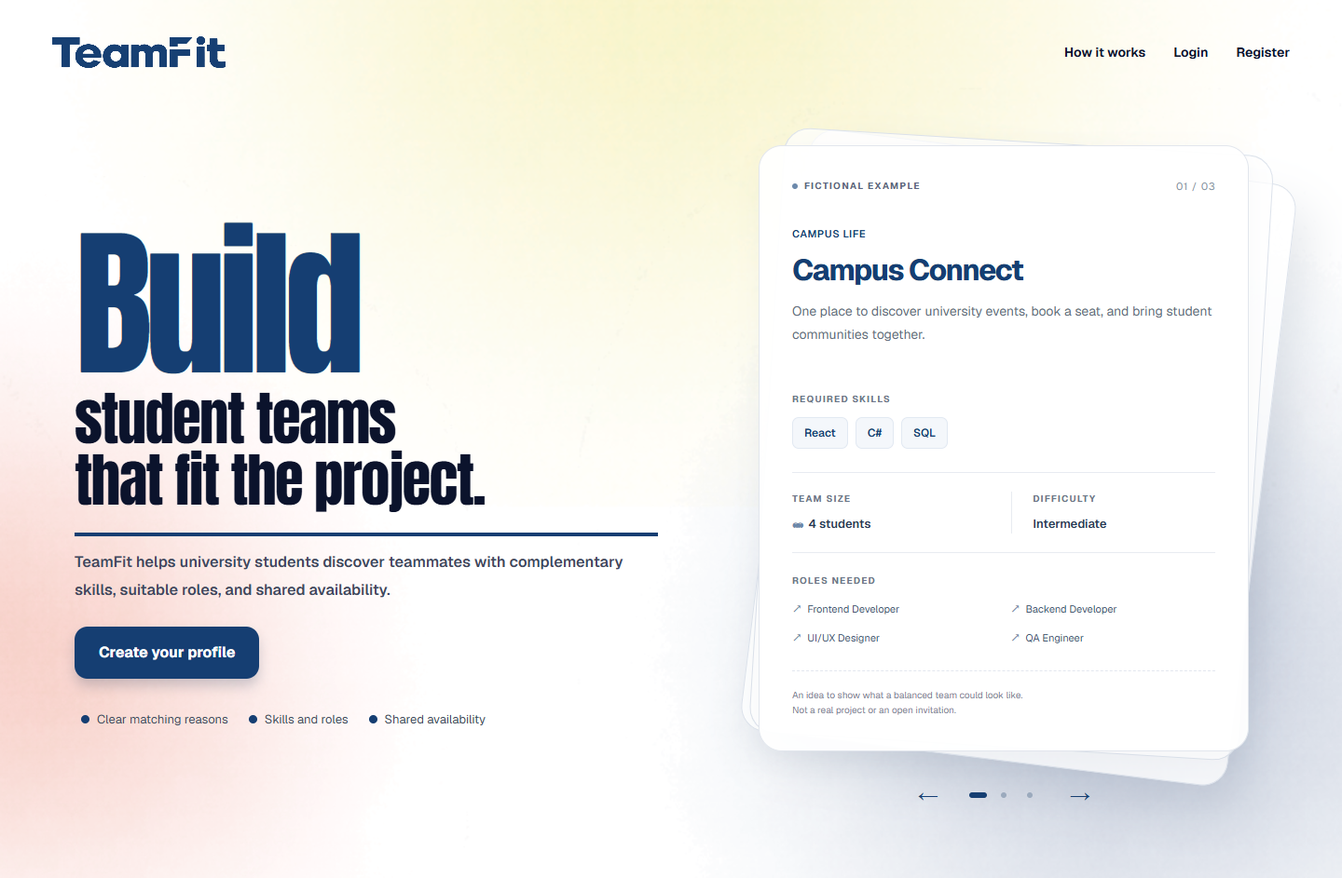
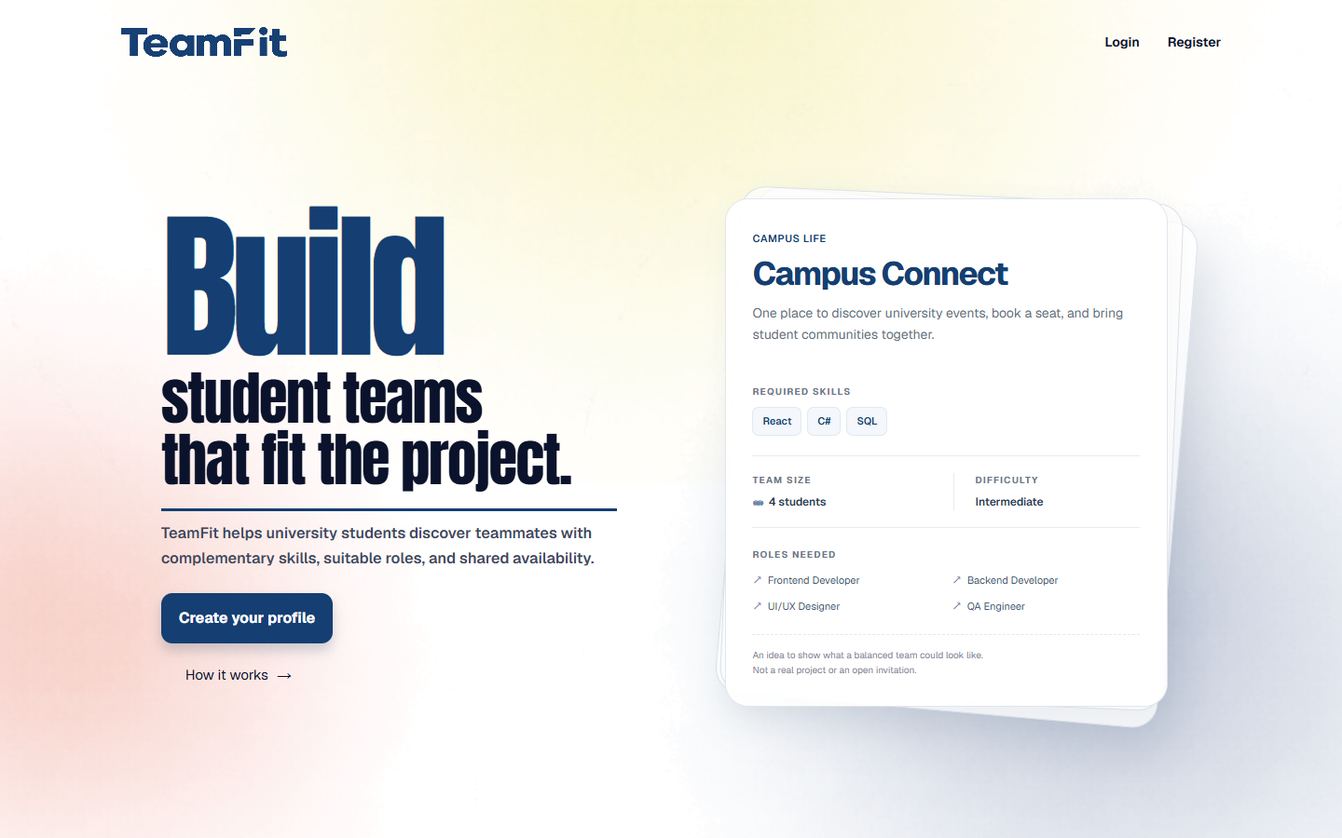
fixed hamepage issues

diff --git a/frontend/src/app/landing.css b/frontend/src/app/landing.css
@@ -52,19 +52,14 @@ button:not(:disabled), a { cursor: pointer; }
 .brand-button-primary:hover { background: #102f58; }
 .brand-button-secondary { background: #fff; color: var(--brand-navy); box-shadow: 0 8px 13px #17233d25; }
 .hero-session-placeholder { display: block; min-height: 56px; width: 200px; }
-.hero-benefits { display: flex; flex-wrap: wrap; gap: 14px 22px; color: #434d60; font-size: 13px; margin-top: 34px; padding-left: 7px; }
-.hero-benefits li { display: flex; align-items: center; gap: 8px; }
-.hero-benefits li::before { content: ""; height: 9px; width: 9px; flex-shrink: 0; border-radius: 50%; background: var(--brand-navy); }
+.hero-how-link { display: inline-flex; align-items: center; gap: 9px; margin: 17px 0 0 16px; padding: 8px 10px; color: var(--brand-ink); font-size: 14px; }
+.hero-how-link:hover { color: var(--brand-navy); text-decoration: underline; text-underline-offset: 5px; }
 .project-showcase { min-width: 0; padding-inline: 8px 20px; }
 .project-stack { position: relative; isolation: isolate; }
 .stack-sheet { position: absolute; inset: 0; border-radius: 27px; border: 1px solid #dce2eb; background: #ffffffbc; z-index: -1; }
 .stack-sheet-back { transform: rotate(7deg) translate(17px, 8px); box-shadow: 18px 25px 50px #283e6020; }
 .stack-sheet-middle { transform: rotate(3.5deg) translate(8px, -5px); }
 .example-project { border: 1px solid #e2e6ed; border-radius: 25px; background: #fffffff2; padding: clamp(24px, 2.4vw, 42px); box-shadow: 0 8px 30px #2c42600a; }
-.example-topline { display: flex; flex-wrap: wrap; gap: 8px; align-items: center; justify-content: space-between; }
-.fictional-label { display: inline-flex; align-items: center; gap: 7px; font-size: 10px; text-transform: uppercase; letter-spacing: .13em; font-weight: 700; color: #5b6780; }
-.fictional-label > span { width: 6px; height: 6px; border-radius: 50%; background: #6d8aac; }
-.example-number { color: #8894a6; font-size: 11px; letter-spacing: .08em; }
 .example-heading { padding-block: 30px 25px; }
 .project-category { color: var(--brand-navy); font-size: 11px; font-weight: 600; letter-spacing: .06em; text-transform: uppercase; }
 .example-heading h2 { margin-top: 9px; color: var(--brand-navy); font-size: clamp(25px, 2.2vw, 36px); font-weight: 750; letter-spacing: -.045em; line-height: 1.2; }
@@ -81,13 +76,6 @@ button:not(:disabled), a { cursor: pointer; }
 .example-roles li { font-size: 11px; color: #455773; display: flex; align-items: baseline; gap: 6px; }
 .example-roles li span { color: #6682a2; font-size: 14px; }
 .example-disclaimer { font-size: 10px; color: #7b8594; line-height: 1.65; margin-top: 25px; padding-top: 18px; border-top: 1px dashed #e3e7ef; }
-.showcase-controls { display: flex; align-items: center; justify-content: center; gap: 24px; margin-top: 29px; }
-.showcase-controls > button { color: var(--brand-navy); height: 35px; width: 35px; font-size: 21px; border-radius: 50%; }
-.showcase-controls > button:hover { background: #ffffff9c; }
-.showcase-dots { display: flex; gap: 4px; align-items: center; }
-.showcase-dots button { position: relative; width: 24px; height: 30px; }
-.showcase-dots button::after { content: ""; display: block; margin: auto; width: 6px; height: 6px; border-radius: 6px; background: #9baabd; }
-.showcase-dots button.selected::after { width: 19px; background: var(--brand-navy); }
 .how-page { width: min(1000px, calc(100% - 48px)); margin: 28px auto 0; padding-bottom: 80px; }
 .back-home { display: inline-block; font-size: 13px; color: var(--brand-navy); margin-bottom: 45px; }
 .page-eyebrow { font-size: 11px; letter-spacing: .15em; color: var(--brand-navy); font-weight: 700; text-transform: uppercase; }
@@ -111,7 +99,6 @@ button:not(:disabled), a { cursor: pointer; }
   .hero-description { font-size: 14px; }
   .hero-actions { gap: 13px; }
   .brand-button { min-width: 145px; font-size: 13px; padding: 15px 18px; }
-  .hero-benefits { font-size: 11px; gap: 13px; }
   .example-project { padding: 25px; }
   .example-roles ul { grid-template-columns: 1fr; min-height: 90px; }
   .public-workspace-nav { width: calc(100% - 64px); }
@@ -128,8 +115,6 @@ button:not(:disabled), a { cursor: pointer; }
   .hero-build { font-size: clamp(104px, 28vw, 185px); }
   .hero-line { font-size: clamp(35px, 9.4vw, 64px); }
   .hero-description { font-size: 14px; line-height: 1.8; margin-top: 20px; }
-  .hero-benefits { margin-top: 26px; font-size: 11px; gap: 11px 18px; padding: 0; }
-  .hero-benefits li::before { height: 6px; width: 6px; }
   .brand-button { min-width: 145px; font-size: 13px; padding: 16px 18px; }
   .project-showcase { max-width: 480px; width: 100%; margin-inline: auto; padding-inline: 0 15px; }
   .example-project { padding: 26px; border-radius: 22px; }
@@ -154,4 +139,104 @@ button:not(:disabled), a { cursor: pointer; }
 @media (prefers-reduced-motion: reduce) {
   .brand-button { transition: none; }
   .brand-button:hover { transform: none; }
+}
+
+/* Home-only sizing: use both viewport dimensions, without hiding/cropping content.
+   Workspace pages and the longer How It Works guide keep their normal scrolling. */
+.landing-home { --home-header: clamp(52px, 10svh, 92px); }
+.landing-home .site-header-inner {
+  width: min(1560px, 82%); min-height: var(--home-header); padding-block: 8px;
+}
+.landing-home .brand-mark { width: clamp(120px, 13vw, 178px); }
+.landing-home .landing-hero {
+  width: min(1420px, 76%); min-height: calc(100svh - var(--home-header));
+  grid-template-columns: 1fr 1fr; gap: clamp(40px, 8vw, 125px);
+  padding-block: min(3svh, 24px) min(5svh, 42px);
+}
+.landing-home .hero-build { font-size: clamp(70px, min(12vw, 23svh), 206px); margin-bottom: 5px; }
+.landing-home .hero-line { font-size: clamp(29px, min(4.35vw, 8.3svh), 74px); }
+.landing-home .hero-description {
+  font-size: clamp(12px, min(1.13vw, 2.05svh), 18px); line-height: 1.65;
+  margin-top: clamp(8px, 2svh, 19px); padding-top: clamp(7px, 1.3svh, 12px); border-top-width: 3px;
+}
+.landing-home .hero-actions { margin-top: clamp(12px, 2.7svh, 23px); min-height: 0; gap: 18px; }
+.landing-home .brand-button {
+  min-width: clamp(125px, 12.5vw, 182px); padding: clamp(10px, 1.7svh, 15px) 19px;
+  font-size: clamp(12px, 1.12vw, 16px); border-radius: 12px;
+}
+.landing-home .hero-session-placeholder { min-height: 44px; }
+.landing-home .hero-how-link { margin-top: clamp(8px, 1.7svh, 16px); font-size: clamp(12px, 1.1vw, 15px); }
+.landing-home .project-showcase { padding-inline: 0 14px; max-width: 560px; width: 100%; justify-self: end; }
+.landing-home .stack-sheet-back { transform: rotate(5deg) translate(11px, 5px); }
+.landing-home .stack-sheet-middle { transform: rotate(2.5deg) translate(5px, -4px); }
+.landing-home .example-project { padding: clamp(18px, 3.2svh, 34px); }
+.landing-home .example-heading { padding-block: 0 clamp(10px, 2.3svh, 22px); }
+.landing-home .example-heading h2 { font-size: clamp(24px, min(2.45vw, 4.5svh), 35px); margin-top: 6px; }
+.landing-home .example-heading p {
+  font-size: clamp(12px, min(1.03vw, 1.9svh), 14px); line-height: 1.6;
+  margin-top: 10px; min-height: 4.8em;
+}
+.landing-home .example-skills ul { margin-top: 9px; gap: 6px; }
+.landing-home .example-skills li { padding: 6px 10px; font-size: 11px; }
+.landing-home .example-facts { margin-top: clamp(12px, 2.4svh, 23px); padding-block: clamp(10px, 2svh, 18px); }
+.landing-home .example-facts dd { margin-top: 7px; font-size: 12px; }
+.landing-home .example-roles { margin-top: clamp(12px, 2.3svh, 21px); }
+.landing-home .example-roles ul { grid-template-columns: 1fr 1fr; gap: 7px 12px; margin-top: 9px; min-height: 42px; }
+.landing-home .example-roles li { font-size: 11px; }
+.landing-home .example-disclaimer { margin-top: clamp(11px, 2.3svh, 20px); padding-top: clamp(9px, 1.6svh, 14px); }
+
+@media (min-width: 761px) and (max-height: 600px) {
+  .landing-home .stack-sheet-back { transform: rotate(3deg) translate(6px, 3px); }
+  .landing-home .stack-sheet-middle { transform: rotate(1.5deg) translate(3px, -3px); }
+  .landing-home .site-header-inner { min-height: 50px; padding-block: 0; }
+  .landing-home { --home-header: 50px; }
+  .landing-home .landing-hero { width: 78%; gap: 7vw; padding-block: 6px 16px; }
+  .landing-home .example-project { padding: 14px 22px; border-radius: 19px; }
+  .landing-home .project-category { font-size: 10px; }
+  .landing-home .example-heading { padding-bottom: 6px; }
+  .landing-home .example-heading h2 { font-size: 23px; }
+  .landing-home .example-heading p { font-size: 11px; line-height: 1.5; margin-top: 6px; min-height: 3em; }
+  .landing-home .example-skills ul { margin-top: 6px; }
+  .landing-home .example-skills li { font-size: 10px; padding: 3px 8px; }
+  .landing-home .example-facts { margin-top: 8px; padding-block: 7px; }
+  .landing-home .example-facts dd { font-size: 11px; margin-top: 5px; }
+  .landing-home .example-roles { margin-top: 9px; }
+  .landing-home .example-roles ul { margin-top: 5px; min-height: 32px; gap: 3px 7px; }
+  .landing-home .example-roles li { font-size: 10px; line-height: 1.3; }
+  .landing-home .example-roles li span { font-size: 11px; line-height: 1; }
+  .landing-home .example-disclaimer { margin-top: 7px; padding-top: 6px; font-size: 9px; line-height: 1.4; }
+  .landing-home .hero-how-link { margin-top: 6px; }
+}
+
+@media (max-width: 760px) {
+  .landing-home { --home-header: 54px; }
+  .landing-home .site-header-inner { width: calc(100% - 40px); min-height: 54px; flex-wrap: nowrap; justify-content: space-between; gap: 16px; }
+  .landing-home .account-navigation { gap: 14px; }
+  .landing-home .landing-hero {
+    width: min(460px, calc(100% - 44px)); grid-template-columns: 1fr;
+    align-content: center; gap: clamp(14px, 2.2svh, 24px); padding-block: 8px 19px;
+  }
+  .landing-home .hero-build { font-size: clamp(59px, 9.1svh, 93px); line-height: .97; margin-bottom: 2px; }
+  .landing-home .hero-line { font-size: clamp(25px, 3.8svh, 36px); line-height: 1.02; }
+  .landing-home .hero-description { font-size: 12px; line-height: 1.45; margin-top: 8px; padding-top: 7px; border-top-width: 2px; }
+  .landing-home .hero-actions { margin-top: 10px; gap: 12px; }
+  .landing-home .brand-button { min-width: 0; flex: 0 1 auto; font-size: 12px; padding: 10px 17px; border-radius: 9px; }
+  .landing-home .hero-how-link { margin: 5px 0 0 8px; padding-block: 6px; font-size: 12px; }
+  .landing-home .project-showcase { padding-inline: 0 6px; }
+  .landing-home .stack-sheet-back { transform: rotate(2deg) translate(4px, 3px); }
+  .landing-home .stack-sheet-middle { transform: rotate(1deg) translate(2px, -3px); }
+  .landing-home .example-project { padding: 16px 19px; border-radius: 18px; }
+  .landing-home .project-category { font-size: 9px; }
+  .landing-home .example-heading { padding-bottom: 9px; }
+  .landing-home .example-heading h2 { font-size: 23px; margin-top: 3px; }
+  .landing-home .example-heading p { font-size: 11px; line-height: 1.5; min-height: 3em; margin-top: 6px; }
+  .landing-home .example-project h3, .landing-home .example-facts dt { font-size: 9px; }
+  .landing-home .example-skills ul { margin-top: 6px; }
+  .landing-home .example-skills li { font-size: 10px; padding: 4px 8px; }
+  .landing-home .example-facts { margin-top: 9px; padding-block: 9px; }
+  .landing-home .example-facts dd { font-size: 11px; margin-top: 4px; }
+  .landing-home .example-roles { margin-top: 9px; }
+  .landing-home .example-roles ul { margin-top: 5px; gap: 3px 10px; min-height: 32px; }
+  .landing-home .example-roles li { font-size: 10px; }
+  .landing-home .example-disclaimer { font-size: 9px; margin-top: 9px; padding-top: 8px; }
 }

diff --git a/frontend/tests/landing.spec.ts b/frontend/tests/landing.spec.ts
@@ -59,6 +59,7 @@ test("guest home matches the simplified public experience and fictional cards", 
   const errors: string[] = [];
   page.on("pageerror", error => errors.push(error.message));
   const requests = await sessionApi(page);
+  await page.clock.install();
   await page.setViewportSize({ width: 1440, height: 900 });
   await page.goto("/");
   await expect(page.getByRole("link", { name: "Register", exact: true })).toBeVisible();
@@ -68,14 +69,18 @@ test("guest home matches the simplified public experience and fictional cards", 
   await expect(page.getByRole("heading", { name: "Sample projects", exact: true })).toHaveCount(0);
   await expect(page.getByText("Your next team starts here")).toHaveCount(0);
   await expect(page.getByRole("heading", { name: "Campus Connect" })).toBeVisible();
-  await expect(page.getByText("Fictional example", { exact: true })).toBeVisible();
+  await expect(page.getByText("Fictional example", { exact: true })).toHaveCount(0);
+  await expect(page.getByText("01 / 03", { exact: true })).toHaveCount(0);
+  await expect(page.getByRole("region", { name: "Example projects, rotating automatically" }).getByRole("button")).toHaveCount(0);
+  await expect(page.getByRole("banner").getByRole("link", { name: "How it works", exact: true })).toHaveCount(0);
+  await expect(page.getByText("Clear matching reasons", { exact: true })).toHaveCount(0);
   for (const label of ["Required skills", "Team size", "Roles needed", "Difficulty"])
     await expect(page.getByText(label, { exact: true })).toBeVisible();
   await page.evaluate(() => document.fonts.ready);
   await page.screenshot({ path: "test-results/guest-home-desktop.png", fullPage: true });
-  await page.getByRole("button", { name: "Next example project" }).click();
+  await page.clock.fastForward(10000);
   await expect(page.getByRole("heading", { name: "Study Circle" })).toBeVisible();
-  await page.getByRole("button", { name: "Show Green Campus" }).click();
+  await page.clock.fastForward(10000);
   await expect(page.getByRole("heading", { name: "Green Campus" })).toBeVisible();
   await page.getByRole("link", { name: "How it works", exact: true }).click();
   await expect(page).toHaveURL(/\/how-it-works$/);
@@ -85,7 +90,7 @@ test("guest home matches the simplified public experience and fictional cards", 
   expect(errors).toEqual([]);
 });
 
-test("signed-in home has a username, workspace links, and reversible logout", async ({ page }) => {
+test("signed-in home hides workspace navigation but keeps profile access and logout", async ({ page }) => {
   await sessionApi(page, "member");
   await page.setViewportSize({ width: 1440, height: 900 });
   await page.goto("/");
@@ -95,11 +100,12 @@ test("signed-in home has a username, workspace links, and reversible logout", as
   await expect(page.getByRole("link", { name: "Create your profile" })).toHaveCount(0);
   await expect(page.getByRole("link", { name: "Browse projects", exact: true })).toBeVisible();
   const navigation = page.getByRole("navigation", { name: "Workspace navigation" });
-  for (const label of ["Dashboard", "My Profile", "Students", "Projects", "Invitations"])
-    await expect(navigation.getByRole("link", { name: label, exact: true })).toBeVisible();
+  await expect(navigation).toHaveCount(0);
+  await expect(page.getByRole("main").getByRole("link", { name: "How it works", exact: true })).toBeVisible();
   await page.evaluate(() => document.fonts.ready);
   await page.screenshot({ path: "test-results/member-home-desktop.png", fullPage: true });
-  await navigation.getByRole("link", { name: "Dashboard", exact: true }).click();
+  await page.getByRole("main").getByRole("link", { name: "My profile", exact: true }).click();
+  await expect(navigation.getByRole("link", { name: "Dashboard", exact: true })).toBeVisible();
   await expect(page.getByRole("banner")).toContainText("nimal");
   await expect(page.getByRole("banner")).not.toContainText("private@example.test");
   await page.getByRole("link", { name: "TeamFit home" }).click();
@@ -142,6 +148,27 @@ test("profile creation and edits generate the header name; login opens signed-in
 });
 
 for (const state of ["guest", "member"] as const) {
+  test(state + " home fits the viewport vertically across desktop and laptop sizes", async ({ page }) => {
+    await sessionApi(page, state);
+    await page.clock.install();
+    for (const [width, height] of [[1920, 1080], [1440, 900], [1366, 768], [1280, 720], [1024, 600], [888, 429], [390, 844]]) {
+      await page.setViewportSize({ width, height });
+      await page.goto("/");
+      await expect(page.getByText("Checking session…")).toHaveCount(0);
+      await page.evaluate(() => document.fonts.ready);
+      // Verify all three automatic slides, not just the shortest card.
+      for (let slide = 0; slide < 3; slide++) {
+        const bounds = await page.evaluate(() => ({
+          width: document.documentElement.scrollWidth, height: document.documentElement.scrollHeight,
+          cardBottom: document.querySelector(".example-project")!.getBoundingClientRect().bottom,
+        }));
+        expect(bounds.width, `horizontal overflow at ${width}x${height}`).toBeLessThanOrEqual(width);
+        expect(bounds.height, `vertical overflow at ${width}x${height}, slide ${slide}`).toBeLessThanOrEqual(height);
+        expect(bounds.cardBottom, "Do not clip the bottom of the card").toBeLessThanOrEqual(height);
+        await page.clock.fastForward(10000);
+      }
+    }
+  });
   test(state + " layout fits mobile and tablet without horizontal scrolling", async ({ page }) => {
     await sessionApi(page, state);
     for (const width of [390, 320, 768]) {
@@ -170,6 +197,31 @@ test("a failed session check preserves the public page and offers retry", async 
   unavailable = false;
   await page.getByRole("button", { name: "Retry connection" }).click();
   await expect(page.getByRole("alert", { name: "Session connection error" })).toHaveCount(0);
+});
+
+test("automatic cards loop and pause while reading or when reduced motion is requested", async ({ page }) => {
+  await sessionApi(page);
+  await page.clock.install();
+  await page.goto("/");
+  await expect(page.getByRole("link", { name: "Login", exact: true })).toBeVisible();
+  const showcase = page.getByRole("region", { name: "Example projects, rotating automatically" });
+  await showcase.hover();
+  await page.clock.fastForward(10000);
+  await expect(page.getByRole("heading", { name: "Campus Connect" })).toBeVisible();
+  await page.mouse.move(0, 0);
+  await page.clock.fastForward(10000);
+  await expect(page.getByRole("heading", { name: "Study Circle" })).toBeVisible();
+  await showcase.focus();
+  await page.clock.fastForward(10000);
+  await expect(page.getByRole("heading", { name: "Study Circle" })).toBeVisible();
+  await page.getByRole("link", { name: "Login", exact: true }).focus();
+  await page.clock.fastForward(10000);
+  await expect(page.getByRole("heading", { name: "Green Campus" })).toBeVisible();
+  await page.clock.fastForward(10000);
+  await expect(page.getByRole("heading", { name: "Campus Connect" })).toBeVisible();
+  await page.emulateMedia({ reducedMotion: "reduce" });
+  await page.clock.fastForward(20000);
+  await expect(page.getByRole("heading", { name: "Campus Connect" })).toBeVisible();
 });
 
 test("private routes still require login and preserve the requested destination", async ({ page }) => {

diff --git a/frontend/src/components/project-showcase.tsx b/frontend/src/components/project-showcase.tsx
@@ -1,6 +1,6 @@
 "use client";
 
-import { useState } from "react";
+import { useEffect, useRef, useState } from "react";
 
 // Deliberately static examples: never fetch or publish real student projects here.
 const examples = [
@@ -23,13 +23,24 @@ const examples = [
 
 export default function ProjectShowcase() {
   const [index, setIndex] = useState(0);
+  const showcase = useRef<HTMLElement>(null);
+  useEffect(() => {
+    // Rotate automatically, but let people finish reading on hover/keyboard focus.
+    // Hidden tabs and reduced-motion preferences must not trigger slide changes.
+    const timer = window.setInterval(() => {
+      if (document.visibilityState !== "visible" ||
+          window.matchMedia("(prefers-reduced-motion: reduce)").matches ||
+          showcase.current?.matches(":hover, :focus-within")) return;
+      setIndex(current => (current + 1) % examples.length);
+    }, 10000);
+    return () => window.clearInterval(timer);
+  }, []);
   const project = examples[index];
-  return <section className="project-showcase" aria-label="Fictional project showcase">
+  return <section ref={showcase} className="project-showcase" aria-label="Example projects, rotating automatically" tabIndex={0}>
     <div className="project-stack">
       <div className="stack-sheet stack-sheet-back" aria-hidden="true" />
       <div className="stack-sheet stack-sheet-middle" aria-hidden="true" />
-      <article className="example-project" aria-live="polite" aria-atomic="true">
-        <div className="example-topline"><span className="fictional-label"><span /> Fictional example</span><span className="example-number">0{index + 1} / 03</span></div>
+      <article className="example-project" aria-live="off">
         <div className="example-heading">
           <span className="project-category">{project.category}</span>
           <h2>{project.title}</h2>
@@ -43,13 +54,6 @@ export default function ProjectShowcase() {
         <div className="example-roles"><h3>Roles needed</h3><ul>{project.roles.map(role => <li key={role}><span aria-hidden="true">↗</span>{role}</li>)}</ul></div>
         <p className="example-disclaimer">An idea to show what a balanced team could look like.<br />Not a real project or an open invitation.</p>
       </article>
-    </div>
-    <div className="showcase-controls" aria-label="Choose an example project">
-      <button onClick={() => setIndex(current => (current + examples.length - 1) % examples.length)} aria-label="Previous example project">←</button>
-      <div className="showcase-dots">{examples.map((item, position) => <button key={item.title}
-        className={position === index ? "selected" : ""} aria-label={`Show ${item.title}`}
-        aria-pressed={position === index} onClick={() => setIndex(position)} />)}</div>
-      <button onClick={() => setIndex(current => (current + 1) % examples.length)} aria-label="Next example project">→</button>
     </div>
   </section>;
 }

diff --git a/frontend/src/components/site-header.tsx b/frontend/src/components/site-header.tsx
@@ -4,16 +4,16 @@ import Link from "next/link";
 import { usePathname } from "next/navigation";
 import Brand from "./brand";
 
-export default function SiteHeader({ signedIn, username, checking = false, busy = false, onLogout, onRefresh }: {
+export default function SiteHeader({ signedIn, username, checking = false, busy = false, onLogout, onRefresh, showHowItWorks = true }: {
   signedIn: boolean; username?: string; checking?: boolean; busy?: boolean;
-  onLogout?: () => void; onRefresh?: () => void;
+  onLogout?: () => void; onRefresh?: () => void; showHowItWorks?: boolean;
 }) {
   const pathname = usePathname();
   return <header className="site-header">
     <div className="site-header-inner">
       <Brand />
       <nav className="account-navigation" aria-label="Account navigation">
-        <Link href="/how-it-works" aria-current={pathname === "/how-it-works" ? "page" : undefined}>How it works</Link>
+        {showHowItWorks && <Link href="/how-it-works" aria-current={pathname === "/how-it-works" ? "page" : undefined}>How it works</Link>}
         {checking ? <span className="session-check" role="status">Checking session…</span> : signedIn ? <>
           <Link href="/profile" className="account-name" aria-label={`My profile: ${username}`}>
             <span aria-hidden="true" className="account-avatar">{username?.slice(0, 1).toUpperCase()}</span>

diff --git a/frontend/src/components/public-experience.tsx b/frontend/src/components/public-experience.tsx
@@ -56,10 +56,10 @@ export default function PublicExperience({ children }: { children: ReactNode }) 
     } finally { setBusy(false); }
   }
   return <PublicSession.Provider value={session}>
-    <div className="public-experience">
+    <div className={pathname === "/" ? "public-experience landing-home" : "public-experience"}>
       <SiteHeader signedIn={session.status === "signed-in"} username={displayName(session.profile?.fullName)}
-        checking={session.status === "loading"} busy={busy} onLogout={logout} />
-      {session.status === "signed-in" && <div className="public-workspace-nav"><WorkspaceNavigation /></div>}
+        checking={session.status === "loading"} busy={busy} onLogout={logout} showHowItWorks={pathname !== "/"} />
+      {session.status === "signed-in" && pathname !== "/" && <div className="public-workspace-nav"><WorkspaceNavigation /></div>}
       {session.error && <div className="public-session-error" role="alert" aria-label="Session connection error">
         <p>{session.error}</p>
         <button onClick={() => setRevision(value => value + 1)}>Retry connection</button>

diff --git a/frontend/src/components/landing-page.tsx b/frontend/src/components/landing-page.tsx
@@ -21,9 +21,7 @@ function Hero() {
             <Link className="brand-button brand-button-secondary" href="/projects">Browse projects</Link>
           </> : <Link className="brand-button brand-button-primary" href="/register">Create your profile</Link>}
       </div>
-      <ul className="hero-benefits" aria-label="TeamFit features">
-        <li>Clear matching reasons</li><li>Skills and roles</li><li>Shared availability</li>
-      </ul>
+      <Link href="/how-it-works" className="hero-how-link">How it works <span aria-hidden="true">→</span></Link>
     </section>
     <ProjectShowcase />
   </main>;

diff --git a/frontend/README.md b/frontend/README.md
@@ -13,9 +13,11 @@ npm run dev
 
 The API must also be running on localhost:5273. Set NEXT_PUBLIC_API_URL in .env.local if needed, then restart/rebuild Next.js. Never place secrets in NEXT_PUBLIC_ variables.
 
-Public routes: / (hero, fictional project-card showcase, short feature list), /how-it-works, /login, /register.
+Public routes: / (compact hero and automatically rotating project-card showcase), /how-it-works, /login, /register.
 
-The root page checks the HttpOnly session through the API. Guests see Login/Register and Create your profile, never a Browse projects button. Signed-in users see their first-name display username, Log out, the workspace navigation, My profile, and Browse projects. Normal login returns here; a protected deep link still returns to the requested route.
+The root page checks the HttpOnly session through the API. Guests see Login/Register and Create your profile, never a Browse projects button. Signed-in users see their first-name display username, Log out, My profile, and Browse projects. The workspace navigation is omitted only on the homepage. How It Works sits below the hero buttons instead of in the homepage header. Normal login returns here; a protected deep link still returns to the requested route.
+
+The fictional cards rotate every 10 seconds without arrows, dots, or a slide counter. Rotation pauses on hover/focus, in hidden tabs, and when reduced motion is requested. A small disclaimer remains so the examples are not mistaken for real projects. Home-only spacing uses viewport height as well as width; no content is hidden with overflow rules. Extremely small windows or enlarged text may still scroll so information remains accessible.
 
 The display name is computed from the saved profile by src/lib/display-name.ts. It is not a unique account identifier; before profile setup it displays Student. Header email addresses have been removed; profile/account email fields are unchanged.
 

diff --git a/README.md b/README.md
@@ -2,7 +2,7 @@
 
 A student project-team formation platform built with **Next.js, ASP.NET Core, and SQL Server**. Students create profiles, describe project requirements, compare explainable recommendations, and form teams through invitations.
 
-This is a working individual full-stack learning project, not an AI/ML matching service. Start at **/**: guests see the public landing page; signed-in students see their display name, workspace navigation, My profile, and Browse projects. Normal login returns to this signed-in home; protected deep links keep their destination. **/workspace** redirects to the dashboard for existing bookmarks.
+This is a working individual full-stack learning project, not an AI/ML matching service. Start at **/**: guests see the public landing page; signed-in students see their display name, My profile, and Browse projects. Both homepages use a compact viewport-fit layout and link to How It Works below the hero buttons. The full workspace navigation remains on authenticated workspace pages, not the homepage. Normal login returns to this signed-in home; protected deep links keep their destination. **/workspace** redirects to the dashboard for existing bookmarks.
 
 ## Features
 
